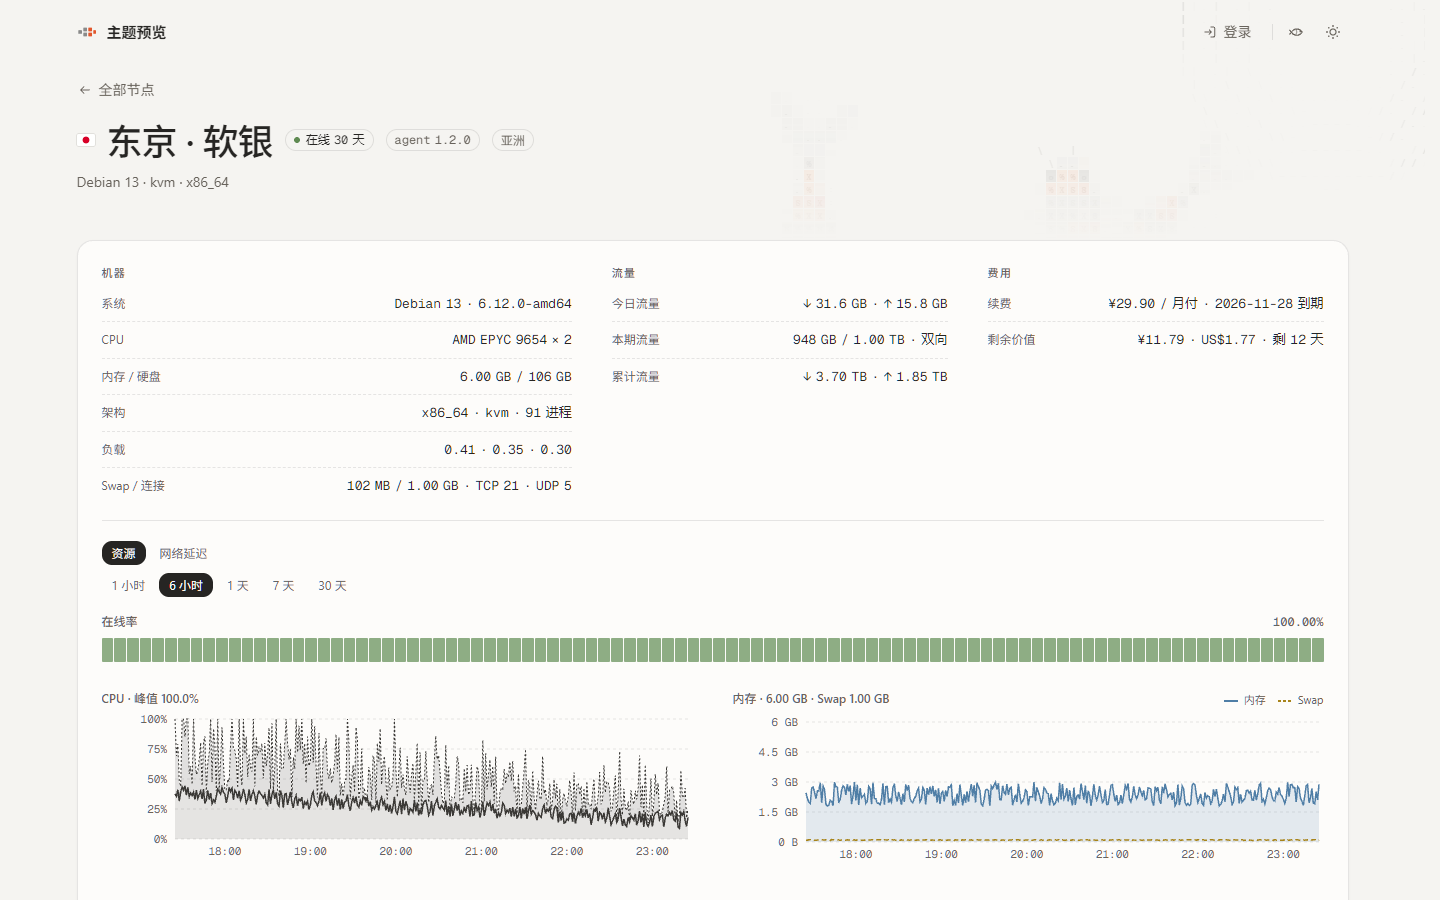
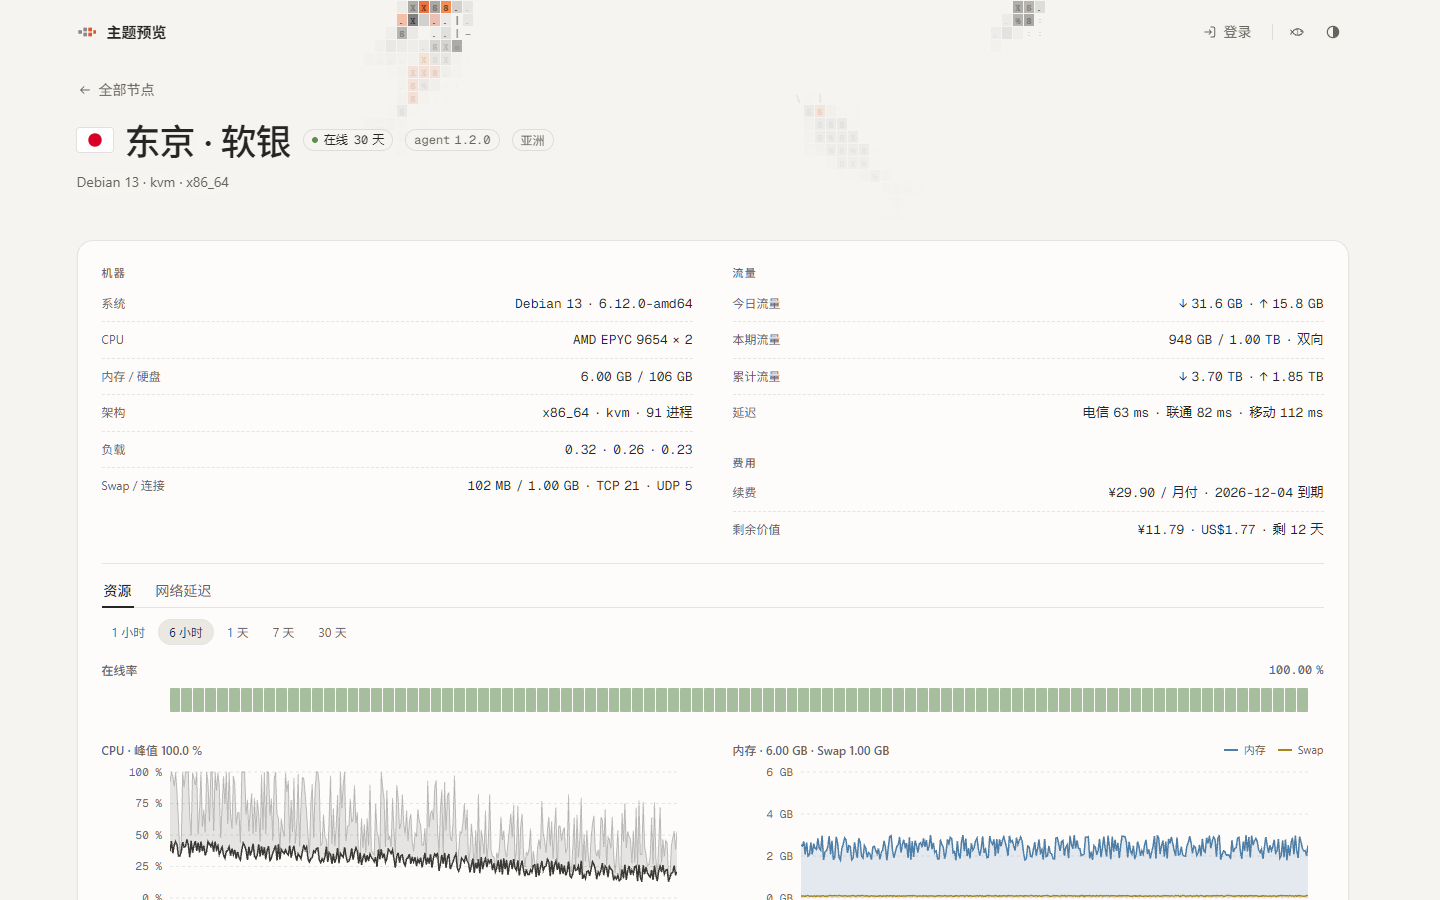
1.2.20: refresh screenshots with card latency and update descriptions

diff --git a/README.md b/README.md
@@ -4,7 +4,7 @@
 [![License](https://img.shields.io/github/license/Ethan2258/monitor-theme-Glyphscape?style=flat-square&color=5f8a52)](LICENSE)
 [![Monitor](https://img.shields.io/badge/Monitor-%E6%8E%A2%E9%92%88%E4%B8%BB%E9%A2%98-2f5a92?style=flat-square)](https://github.com/monitor-probe/monitor)
 
-[Monitor](https://github.com/monitor-probe/monitor) 探针公开状态页主题：保留默认主题的清晰版式，页首嵌一片可随时切换的字符场景（**锦鲤池塘** / **幽灵鬼域**），随场景联动配色与图标，配有可交互点阵地球仪、双币种成本折算与详情页监控图表。
+[Monitor](https://github.com/monitor-probe/monitor) 探针公开状态页主题：保留默认主题的清晰版式，页首嵌一片可随时切换的字符场景（**锦鲤池塘** / **幽灵鬼域**），随场景联动配色与图标，配有可交互点阵地球仪、卡片三网延迟色块、双币种成本折算与详情页监控图表。
 
 > 原名「墨池 · Inkpond」，主题标识 `inkpond` 保持不变。已安装旧版的站点直接在面板点击更新即可，原有设置不受影响。
 
@@ -34,6 +34,10 @@
 | ![锦鲤池塘场景](screenshots/scene-pond.png) | ![幽灵鬼域浅色场景](screenshots/scene-wraith.png) |
 | **幽灵鬼域（深色）** | **节点详情页** |
 | ![幽灵鬼域深色场景](screenshots/scene-wraith-dark.png) | ![节点详情页](screenshots/node-detail.png) |
+
+**卡片三网延迟**
+
+![卡片三网延迟](screenshots/latency.png)
 
 ## 安装与更新
 
